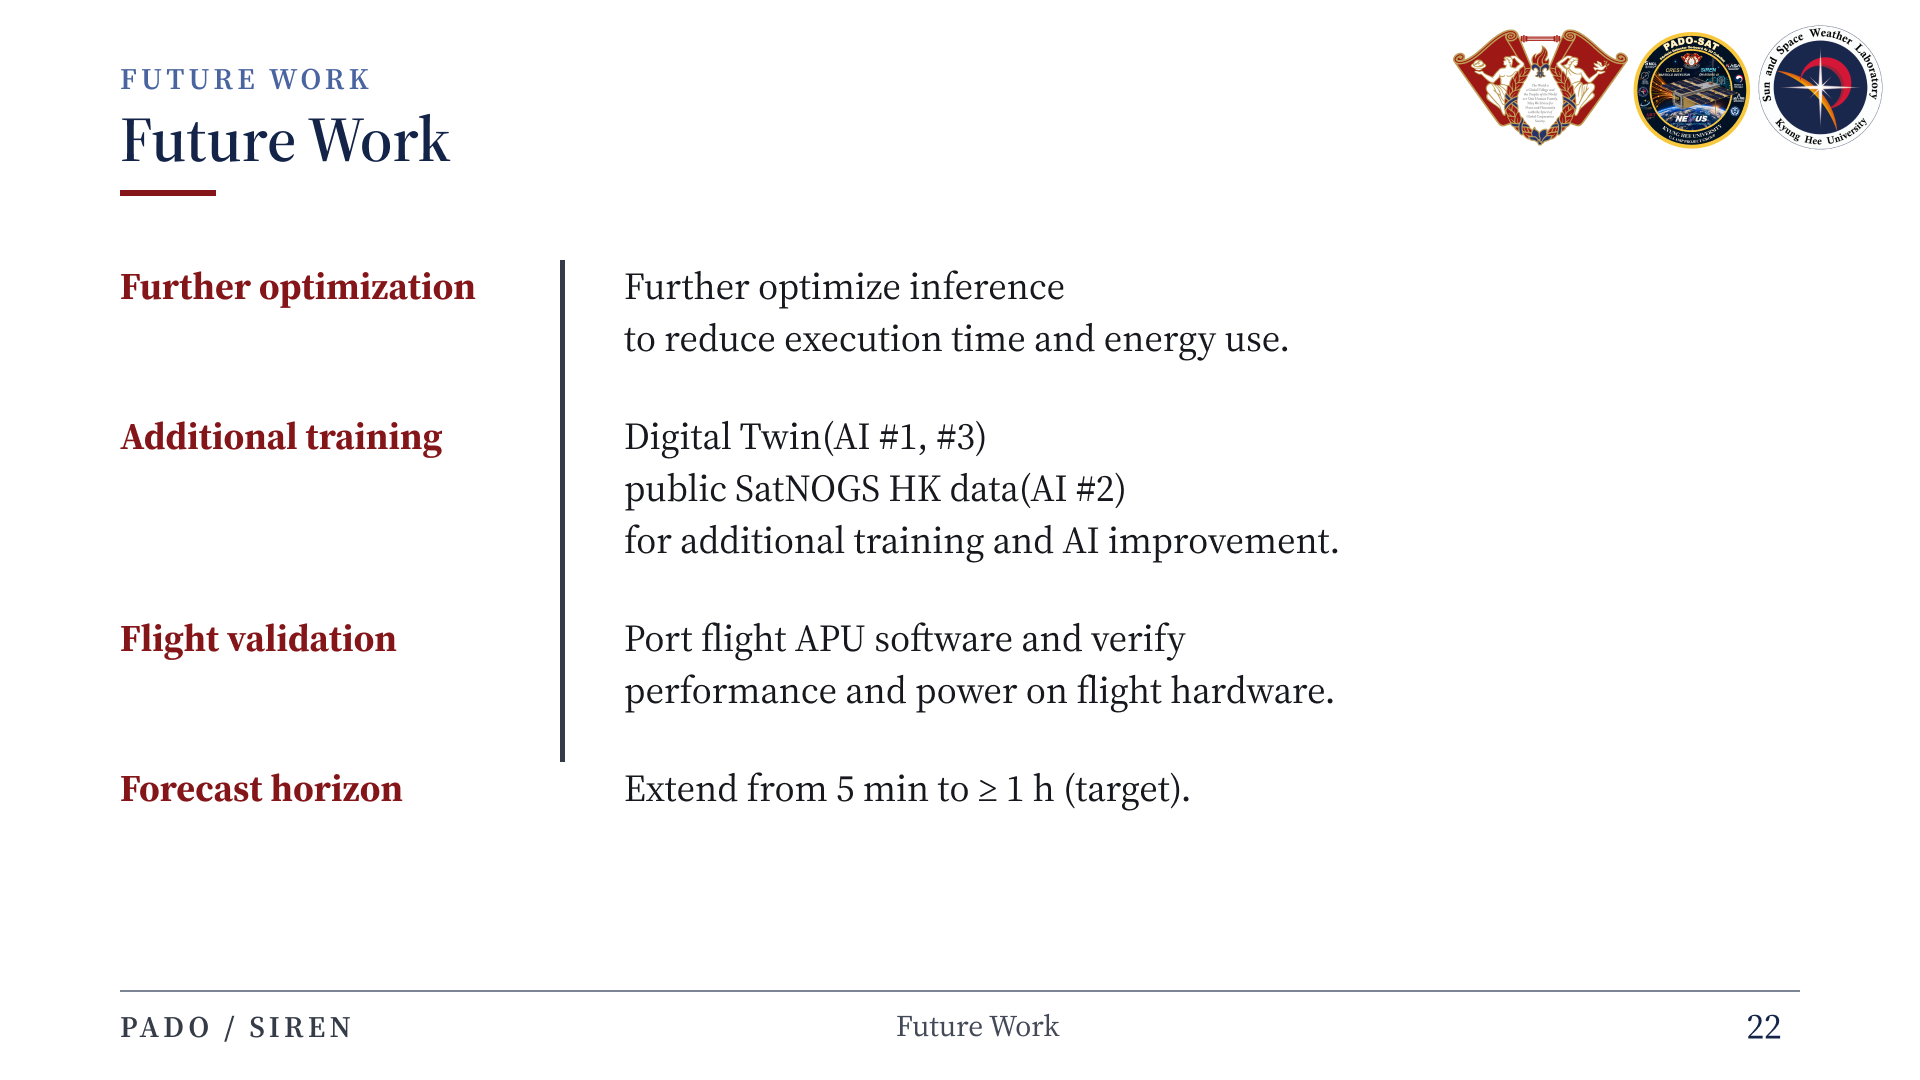
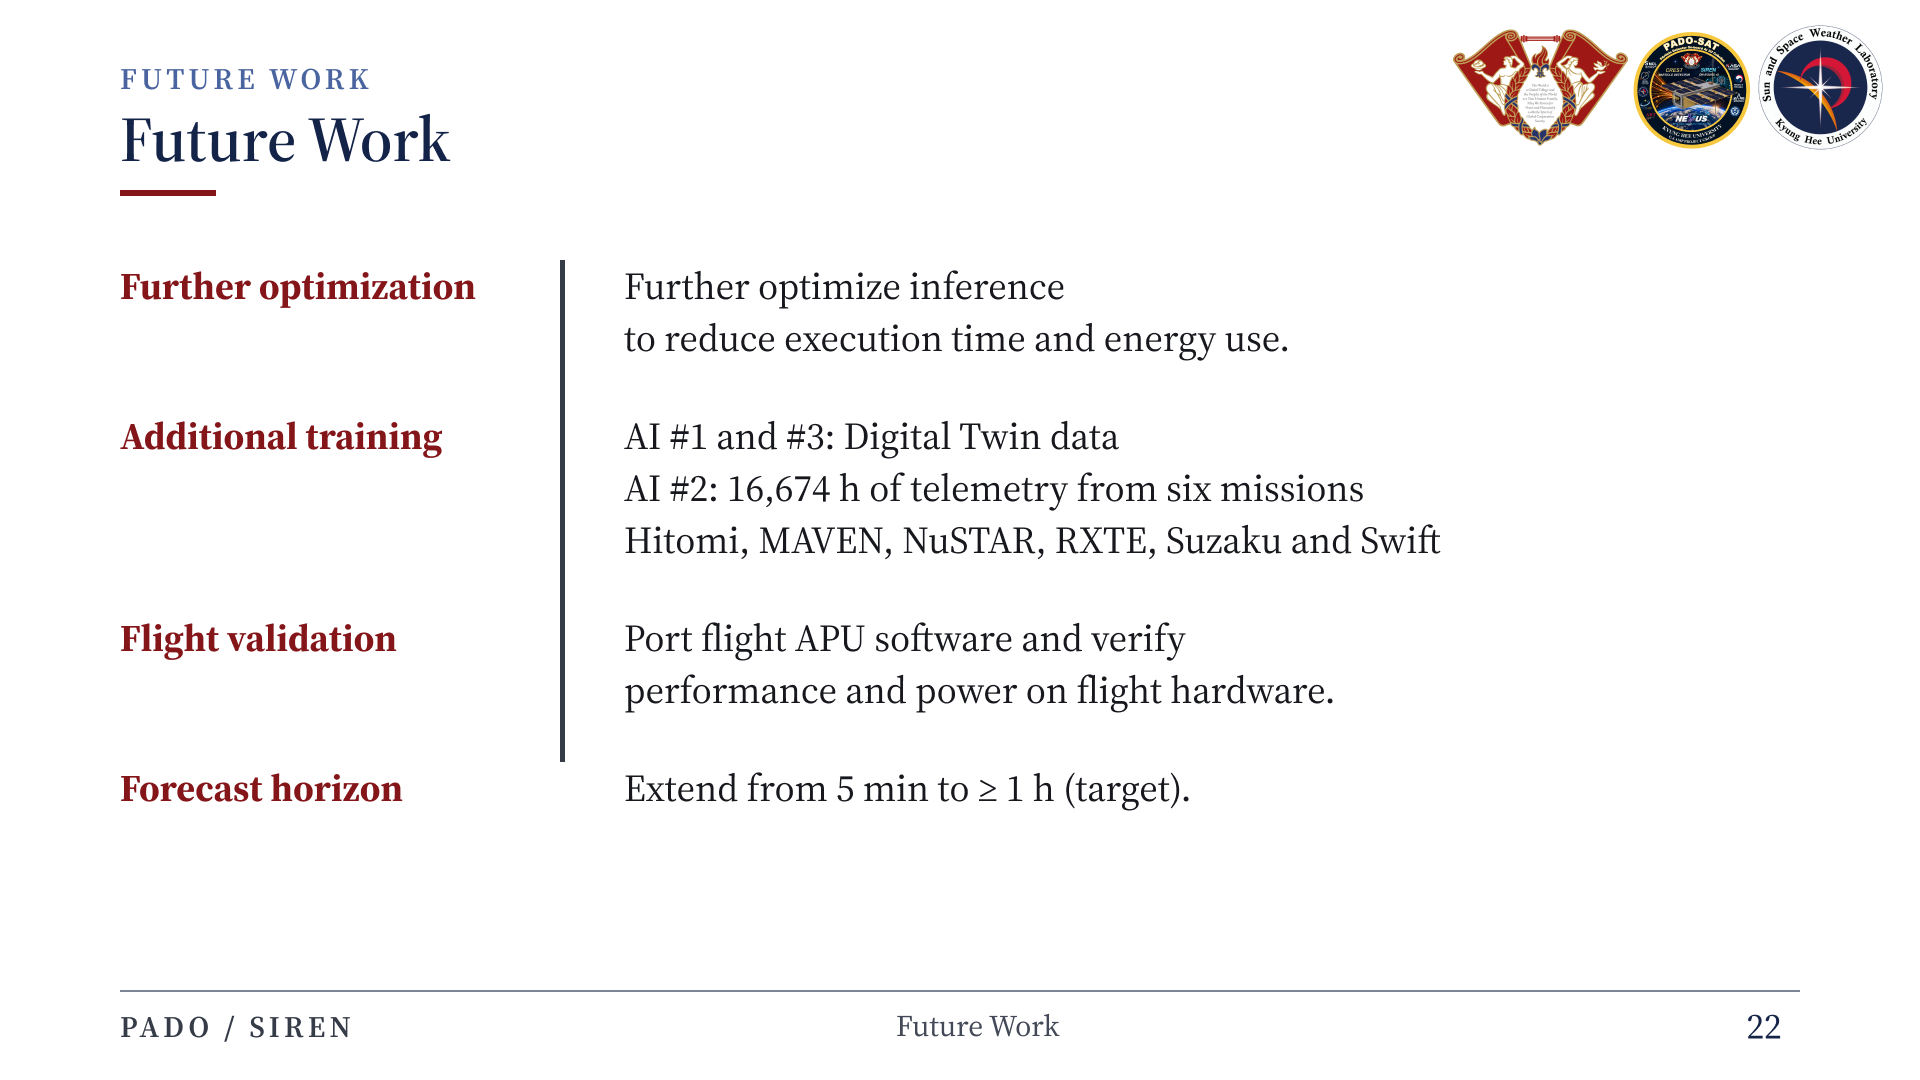
Update anomaly detection training plans

Changed region(s): [[0.3125, 0.3972, 0.75, 0.5194]]

diff --git a/README.md b/README.md
@@ -92,7 +92,7 @@ PADO-SAT의 온보드 AI 탑재체 SIREN 발표 자료입니다.
 
 ### 22. Future Work
 
-![Slide 22: Future Work](assets/slides/22.png?v=cc9280ecaf5f)
+![Slide 22: Future Work](assets/slides/22.png?v=2b2b73234981)
 
 ### 23. Summary
 
